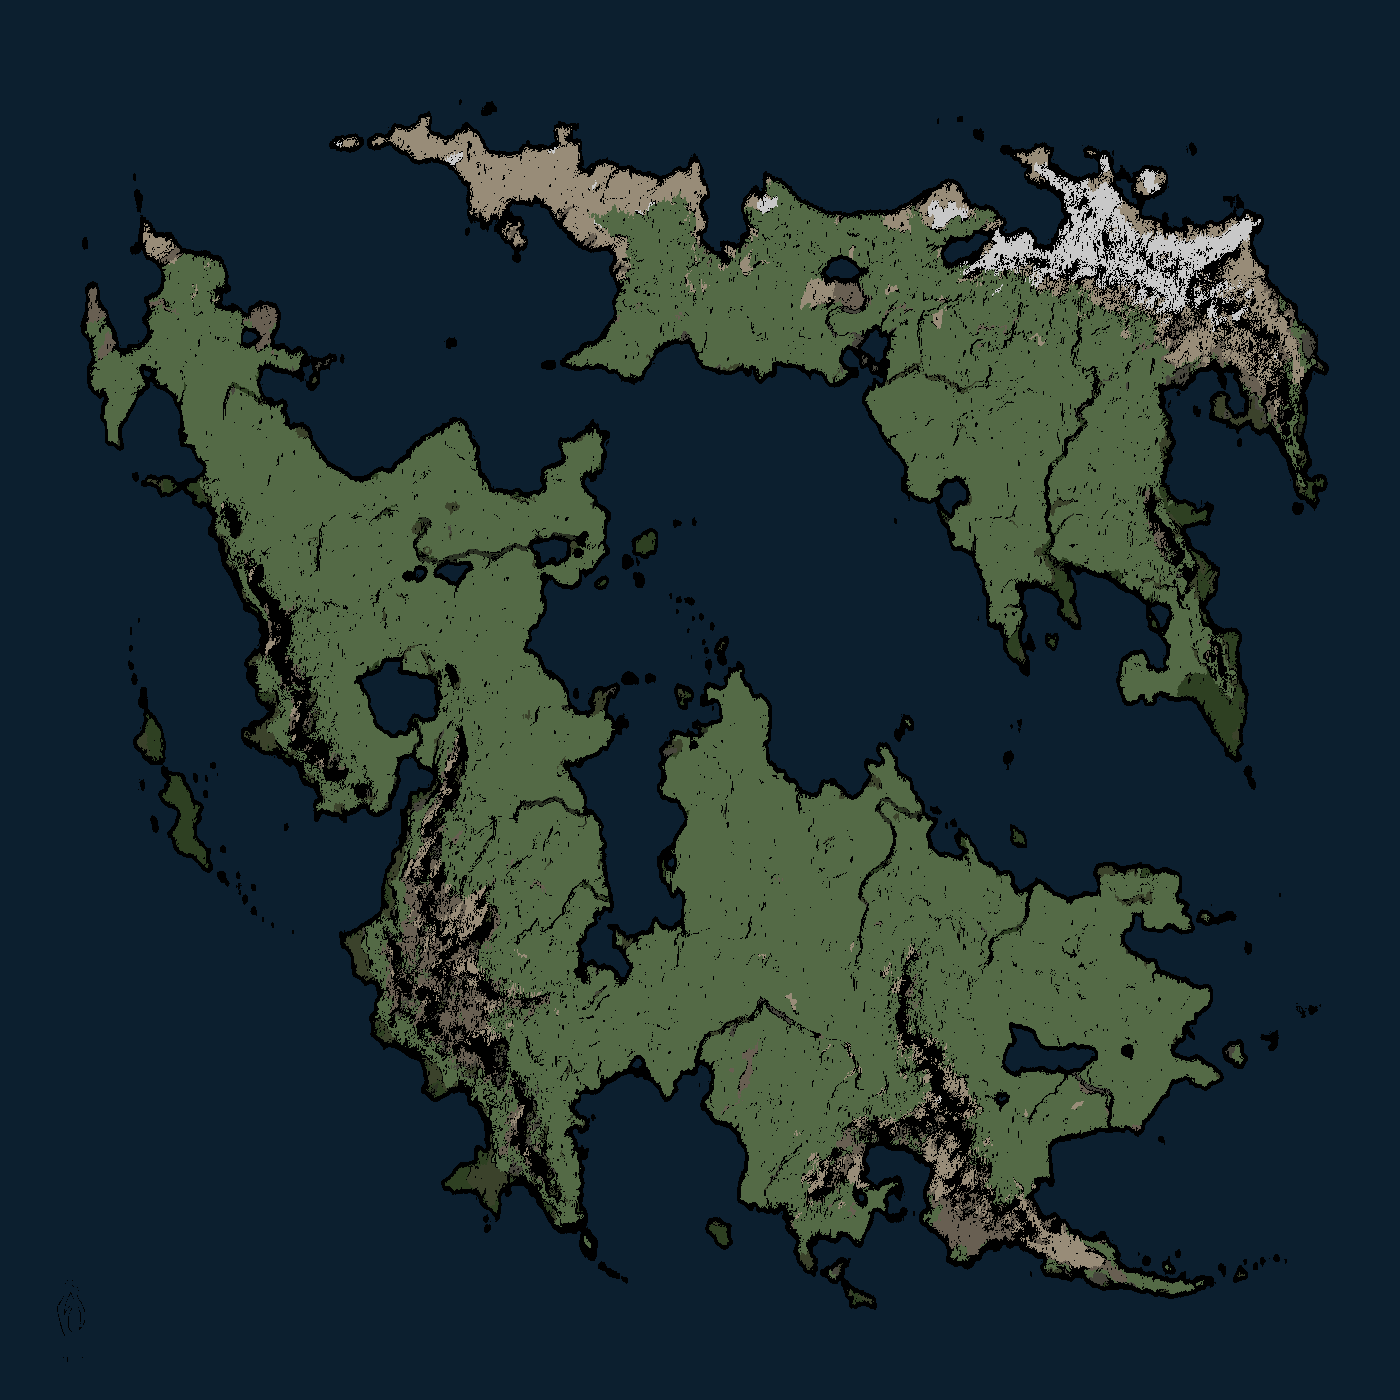
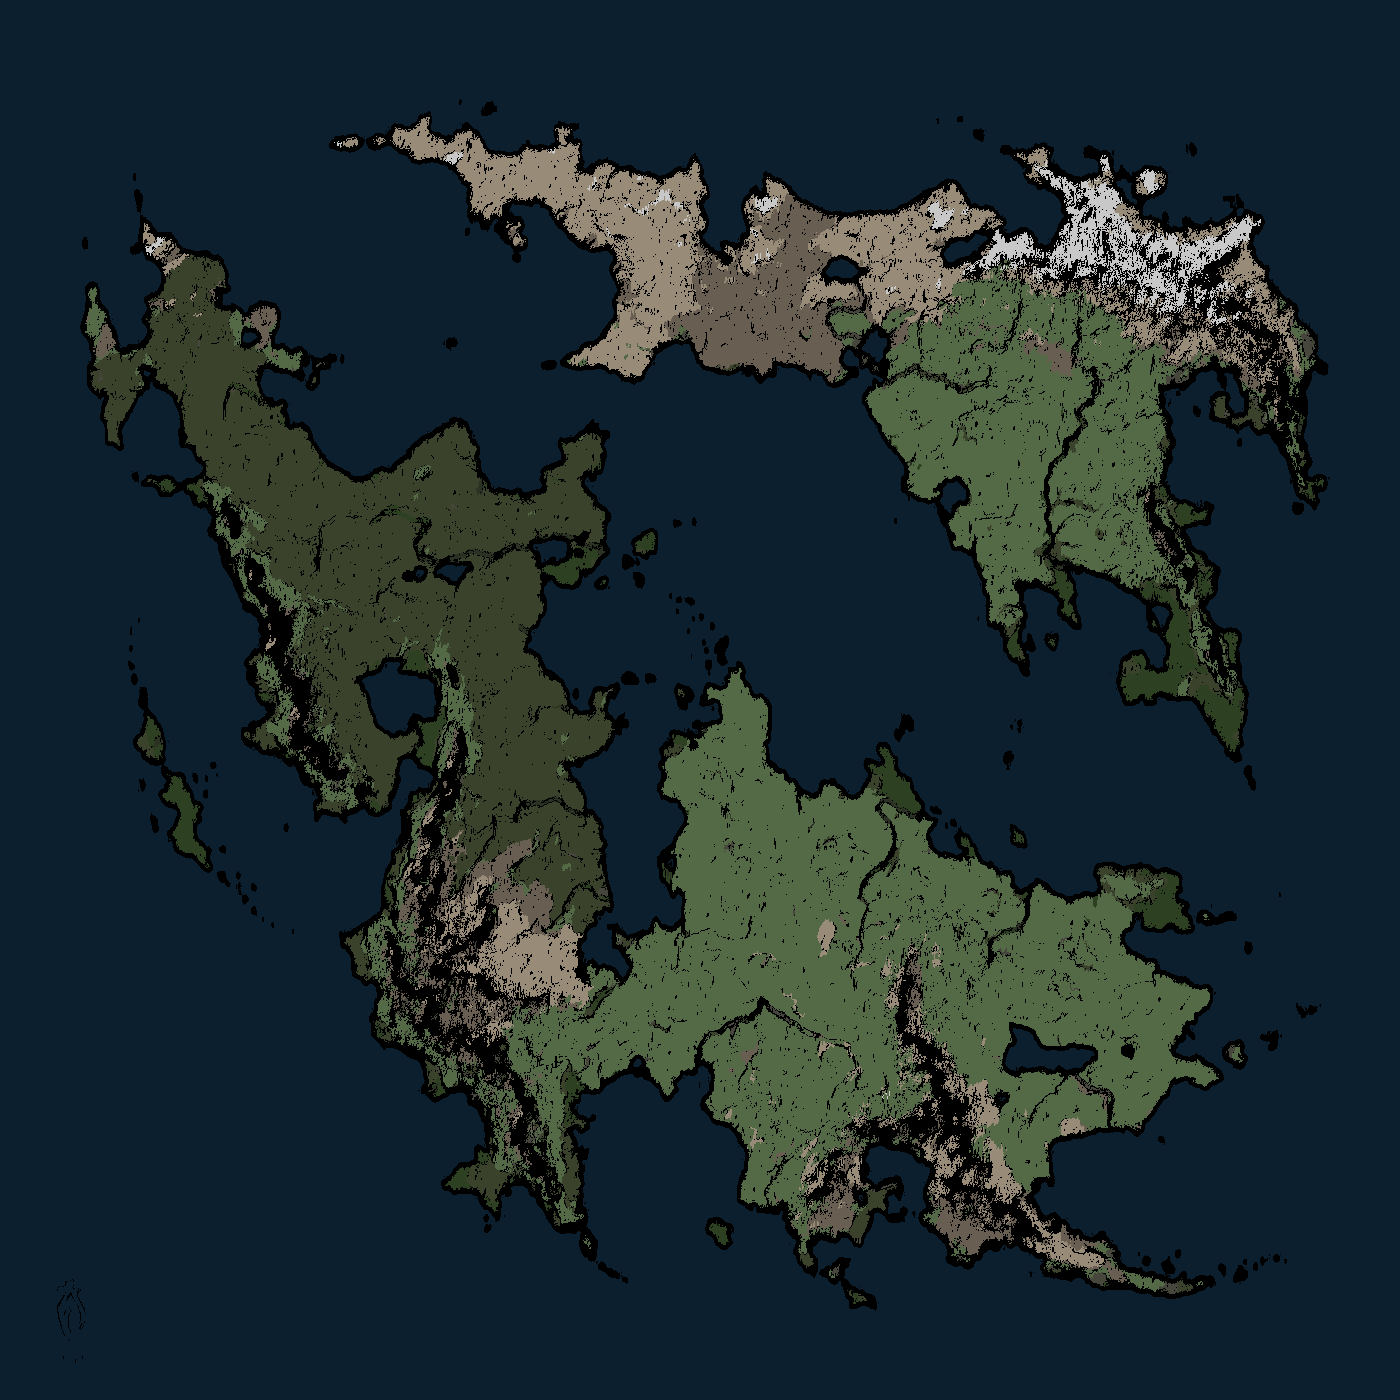
merge

diff --git a/SAE_IL/src/Main.java b/SAE_IL/src/Main.java
@@ -48,7 +48,7 @@ public class Main {
         String[] images = {"Planete 1", "Planete 2", "Planete 3", "Planete 4", "Planete 5"};
         String[] normes = {"Redmean", "CIELAB", "Oeil"};
         int flou = 5;
-        int[][] paramSCAN = {{18, 8}, {13, 6}, {13, 6}};
+        int[][] paramSCAN = {{20, 8}, {13, 6}, {13, 6}};
         String ext = "jpg";
         NormeCouleurs[] normes_couleurs = {new NormeRedmean(), new NormeCIELAB(), new NormeOeil()};
         for(String img : images){
